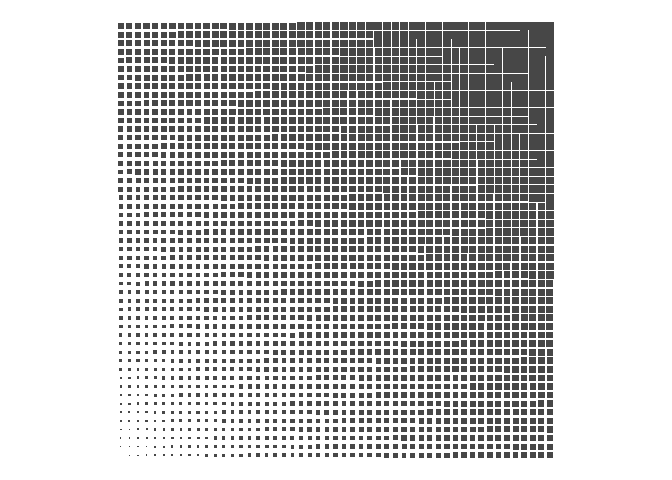
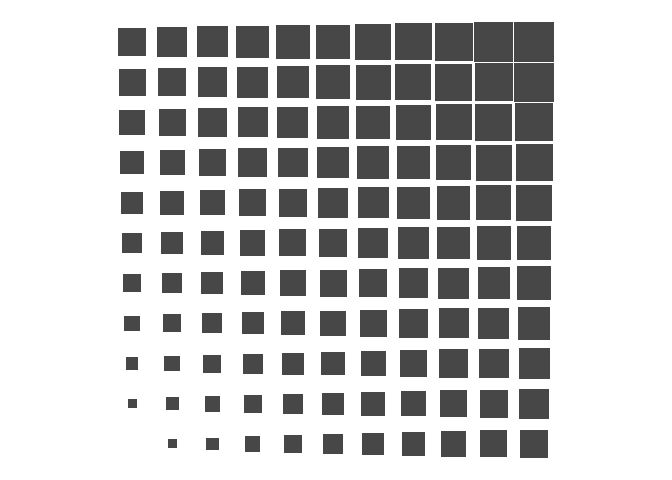
Readme update

Changed region(s): [[0.1562, 0.0312, 0.8438, 0.9688]]

diff --git a/README.md b/README.md
@@ -17,7 +17,7 @@ so: `devtools::install_github("matthewkling/ggtilesize")`.
 
 ## Example
 
-We use `geom_tile_size()` to create a tile-size plot. It requires the x,
+To create a tile-size plot we use `geom_tile_size()`. It requires the x,
 y, and scale aesthetics, with the latter corresponding to the size of
 tiles; other aesthetics such as fill, color, or alpha are supported as
 well. For simplicity we’ll just map scale to the sum of x and y here:
@@ -26,7 +26,7 @@ well. For simplicity we’ll just map scale to the sum of x and y here:
 library(tidyverse)
 library(ggtilesize)
 
-d <- expand_grid(x = -25:25, y = -25:25)
+d <- expand_grid(x = 0:10, y = 0:10)
 
 p <- ggplot(d, aes(x, y, scale = x + y)) +
       coord_fixed() +
